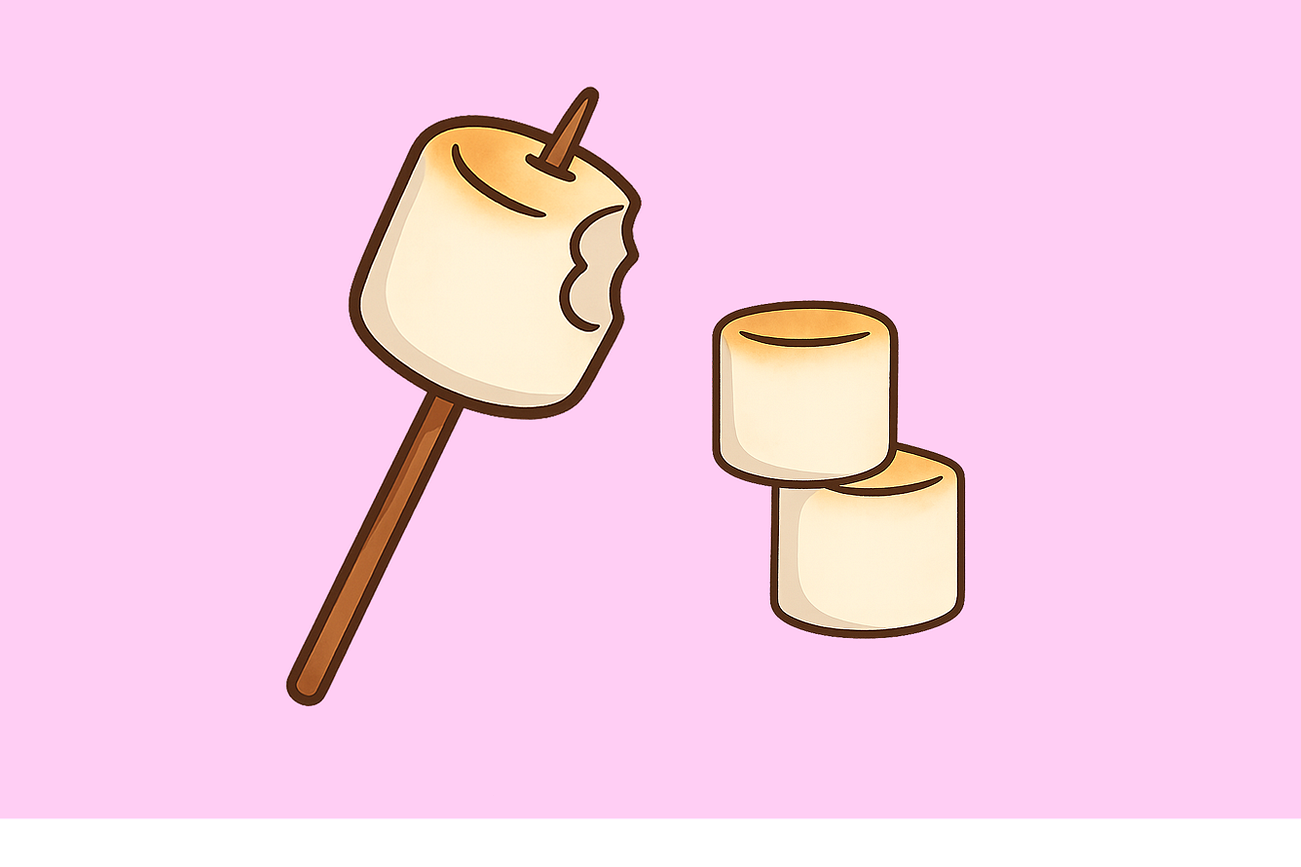
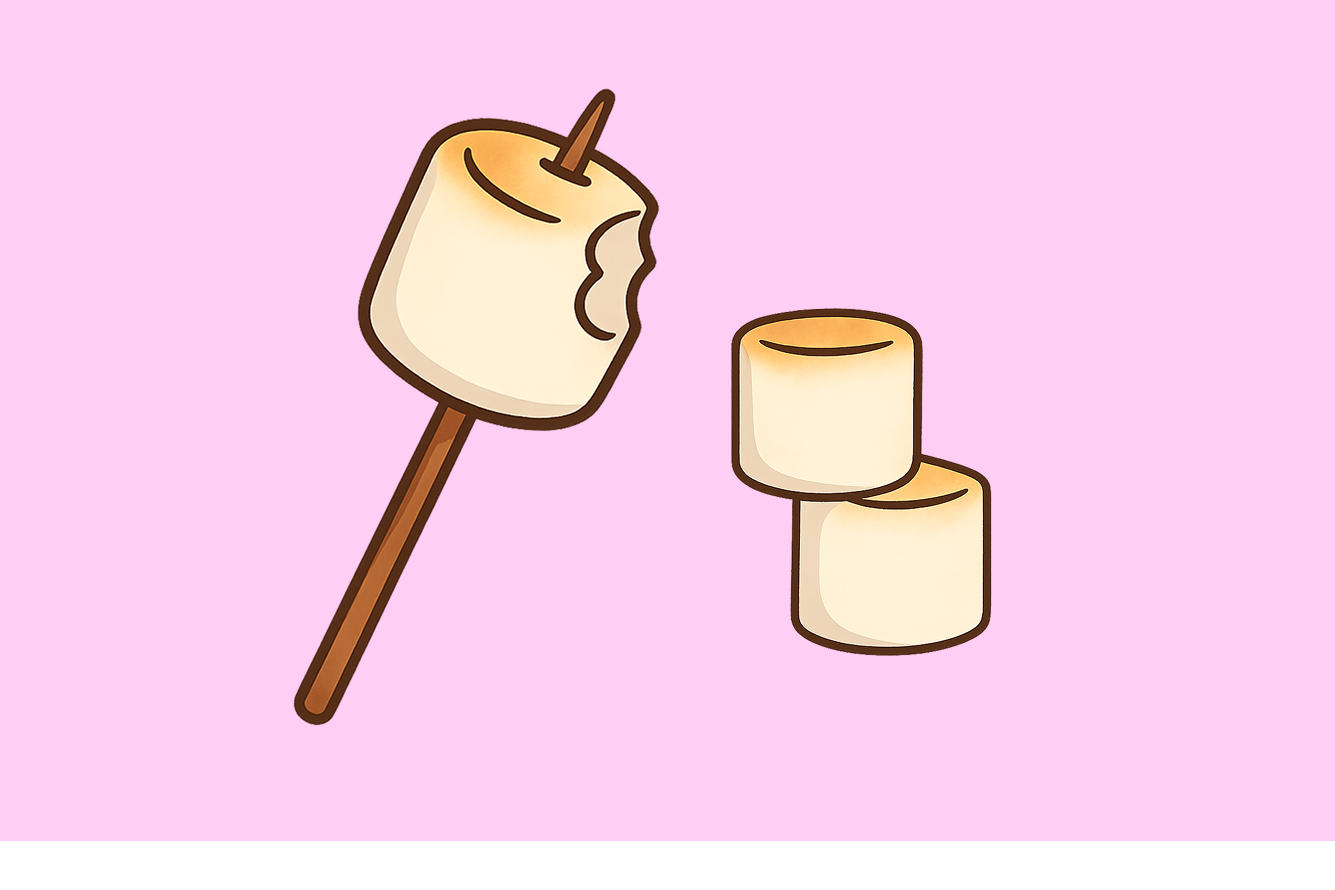
feat: fix-your-squishy-headlines cover + Tom's author photo
- public/articles/fix-your-squishy-headlines-talk-about/cover.png swapped to the marshmallows-on-a-stick illustration (htu0004-a.png), centre-cropped to 3:2 (1335×890).
- lib/authors.ts now wires `/authors/htu-author-thomasbudin.png` as the avatar for Thomas Budin — the author card at the end of every article will show the headshot in place of the initials fallback.

diff --git a/lib/authors.ts b/lib/authors.ts
@@ -40,10 +40,9 @@ const AUTHORS: Record<string, AuthorProfile> = {
     name: 'Thomas Budin',
     role: 'Founder & writer, Horse to Unicorn',
     bio: 'Weekly marketing and systems thinking for technical founders and operators. The thesis: ship a 1.5× product with a 10× story.',
-    // Drop /public/authors/thomas.jpg and /public/authors/thomas-signature.png
-    // then uncomment these to enable. Until then the footer falls back to
-    // initials + the signatureText below.
-    // avatar: '/authors/thomas.jpg',
+    avatar: '/authors/htu-author-thomasbudin.png',
+    // Drop /public/authors/thomas-signature.png and uncomment to enable the
+    // handwritten signature above the author card.
     // signature: '/authors/thomas-signature.png',
     signatureText: '— Thomas',
     links: [{ label: 'About', href: '/about' }],